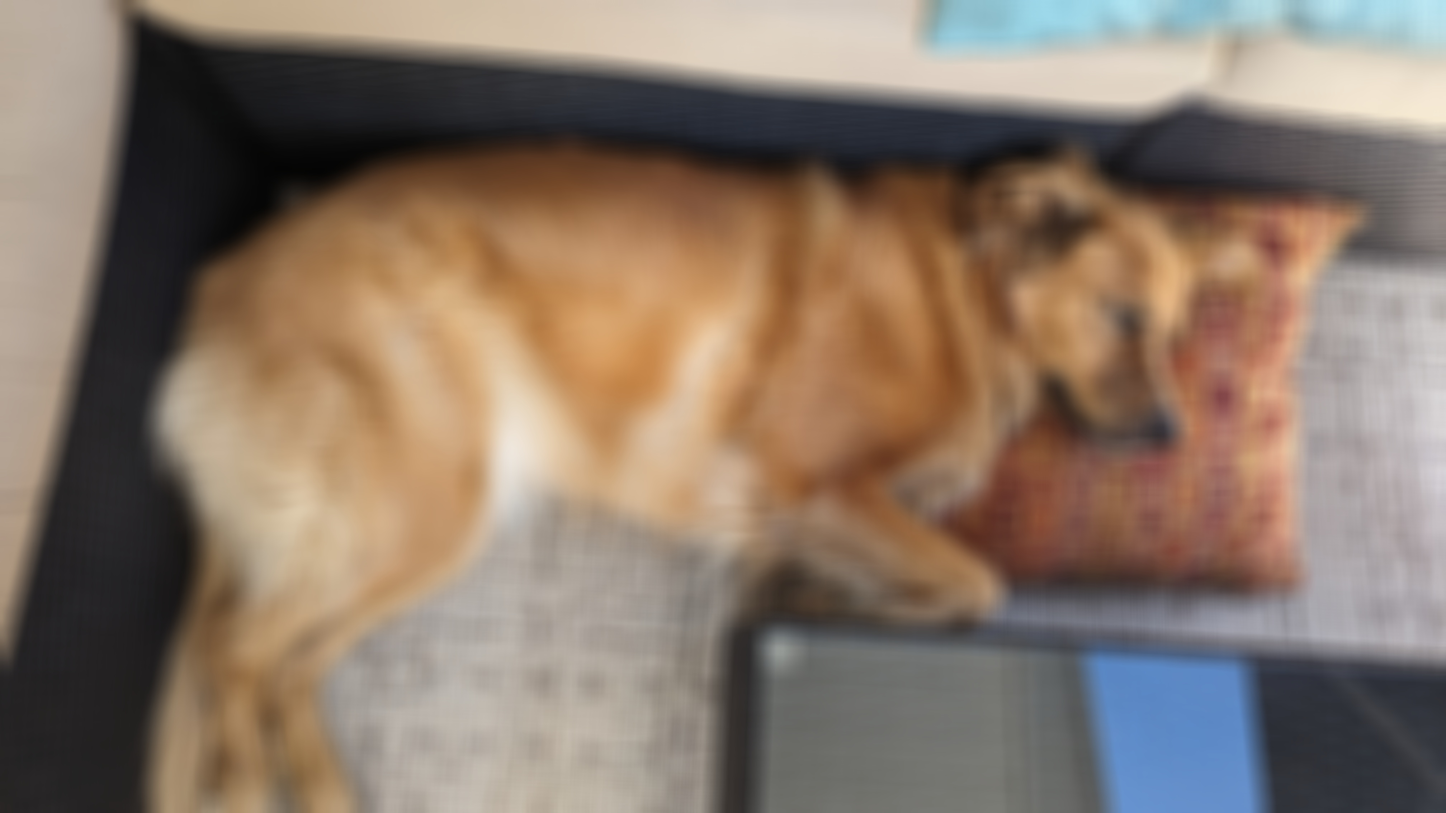
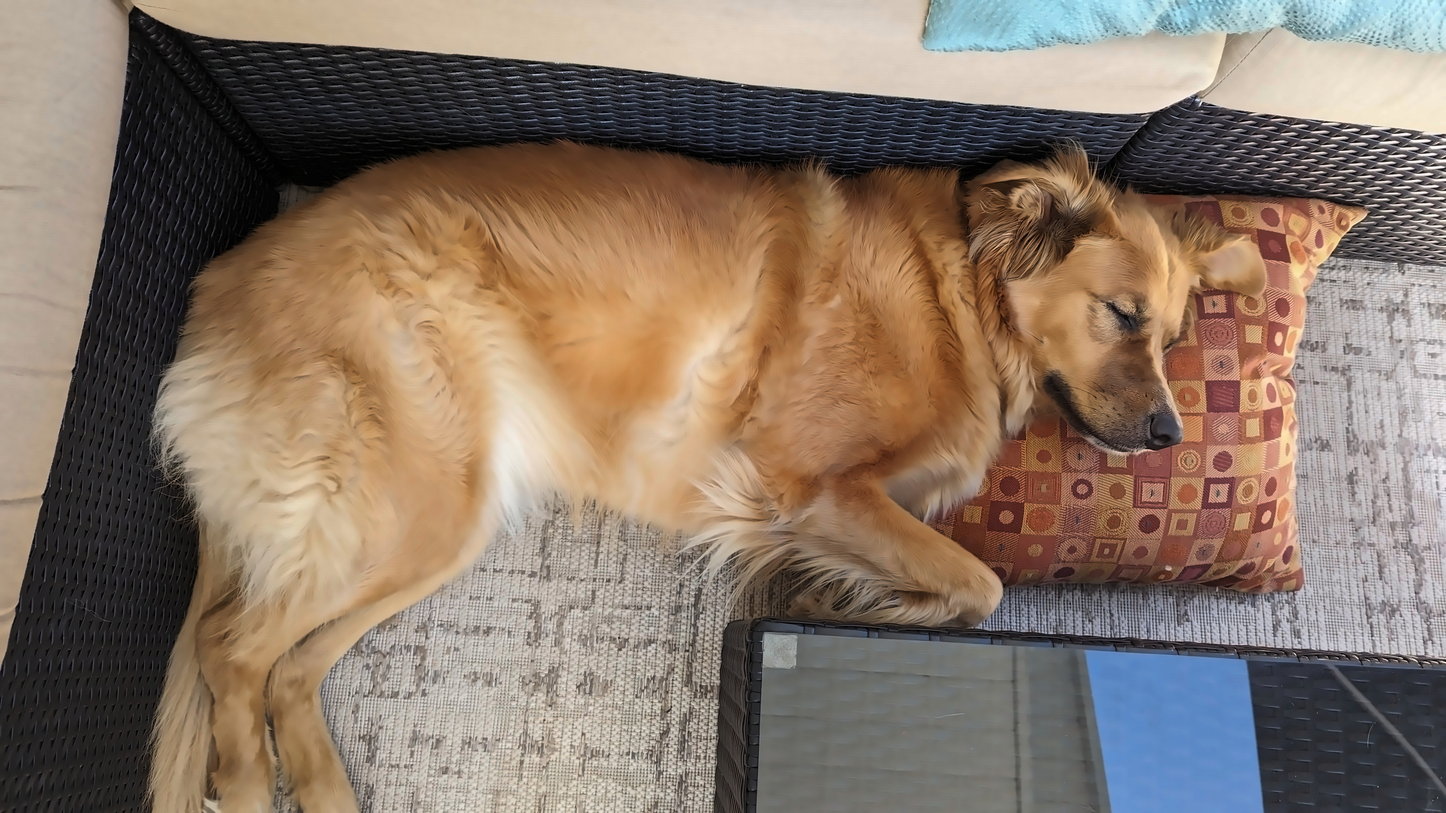
changed code to get first DIRECTORY and add noise reduction

diff --git a/script.py b/script.py
@@ -1,10 +1,20 @@
 import os
 import cv2
 
-from filters import box_blur
+from filters import *
 
-# should be our only directory
-full_path = os.path.join('input', os.listdir('input')[0])
+# list entries in the input directory
+entries = os.listdir('input')
+
+# filter entries to find the first directory
+directories = [entry for entry in entries if os.path.isdir(os.path.join('input', entry))]
+
+# check if we have found exactly one directory
+if len(directories) == 1:
+    full_path = os.path.join('input', directories[0])
+    print(f"The directory is {full_path}.")
+else:
+    print("There is either no directory or more than one directory in the input directory.")
 
 # check if the directory exists
 if not os.path.isdir(full_path):
@@ -29,7 +39,8 @@ else:
                 print(f"Image: {image_file}, Size: {width}x{height}, Channels: {channels}")
                 
                 # display the image
-                img = box_blur(img)
+                # img = box_blur(img)
+                img = noise_reduction(img)
                 
                 cv2.imwrite(f'output/{image_file}', img)
             else:

diff --git a/filters.py b/filters.py
@@ -9,3 +9,12 @@ def box_blur(image):
     
     value = cv2.filter2D(image, -1, kernel)
     return value
+
+def noise_reduction(image):
+    return cv2.fastNlMeansDenoisingColored(image,None,10,10,7,21)
+
+    # cv2.imshow('binary', out_binary)  
+    # cv2.imwrite('binary.png',out_binary)
+
+    # cv2.imshow('gray', out_gray)  
+    # cv2.imwrite('gray.png',out_gray)
